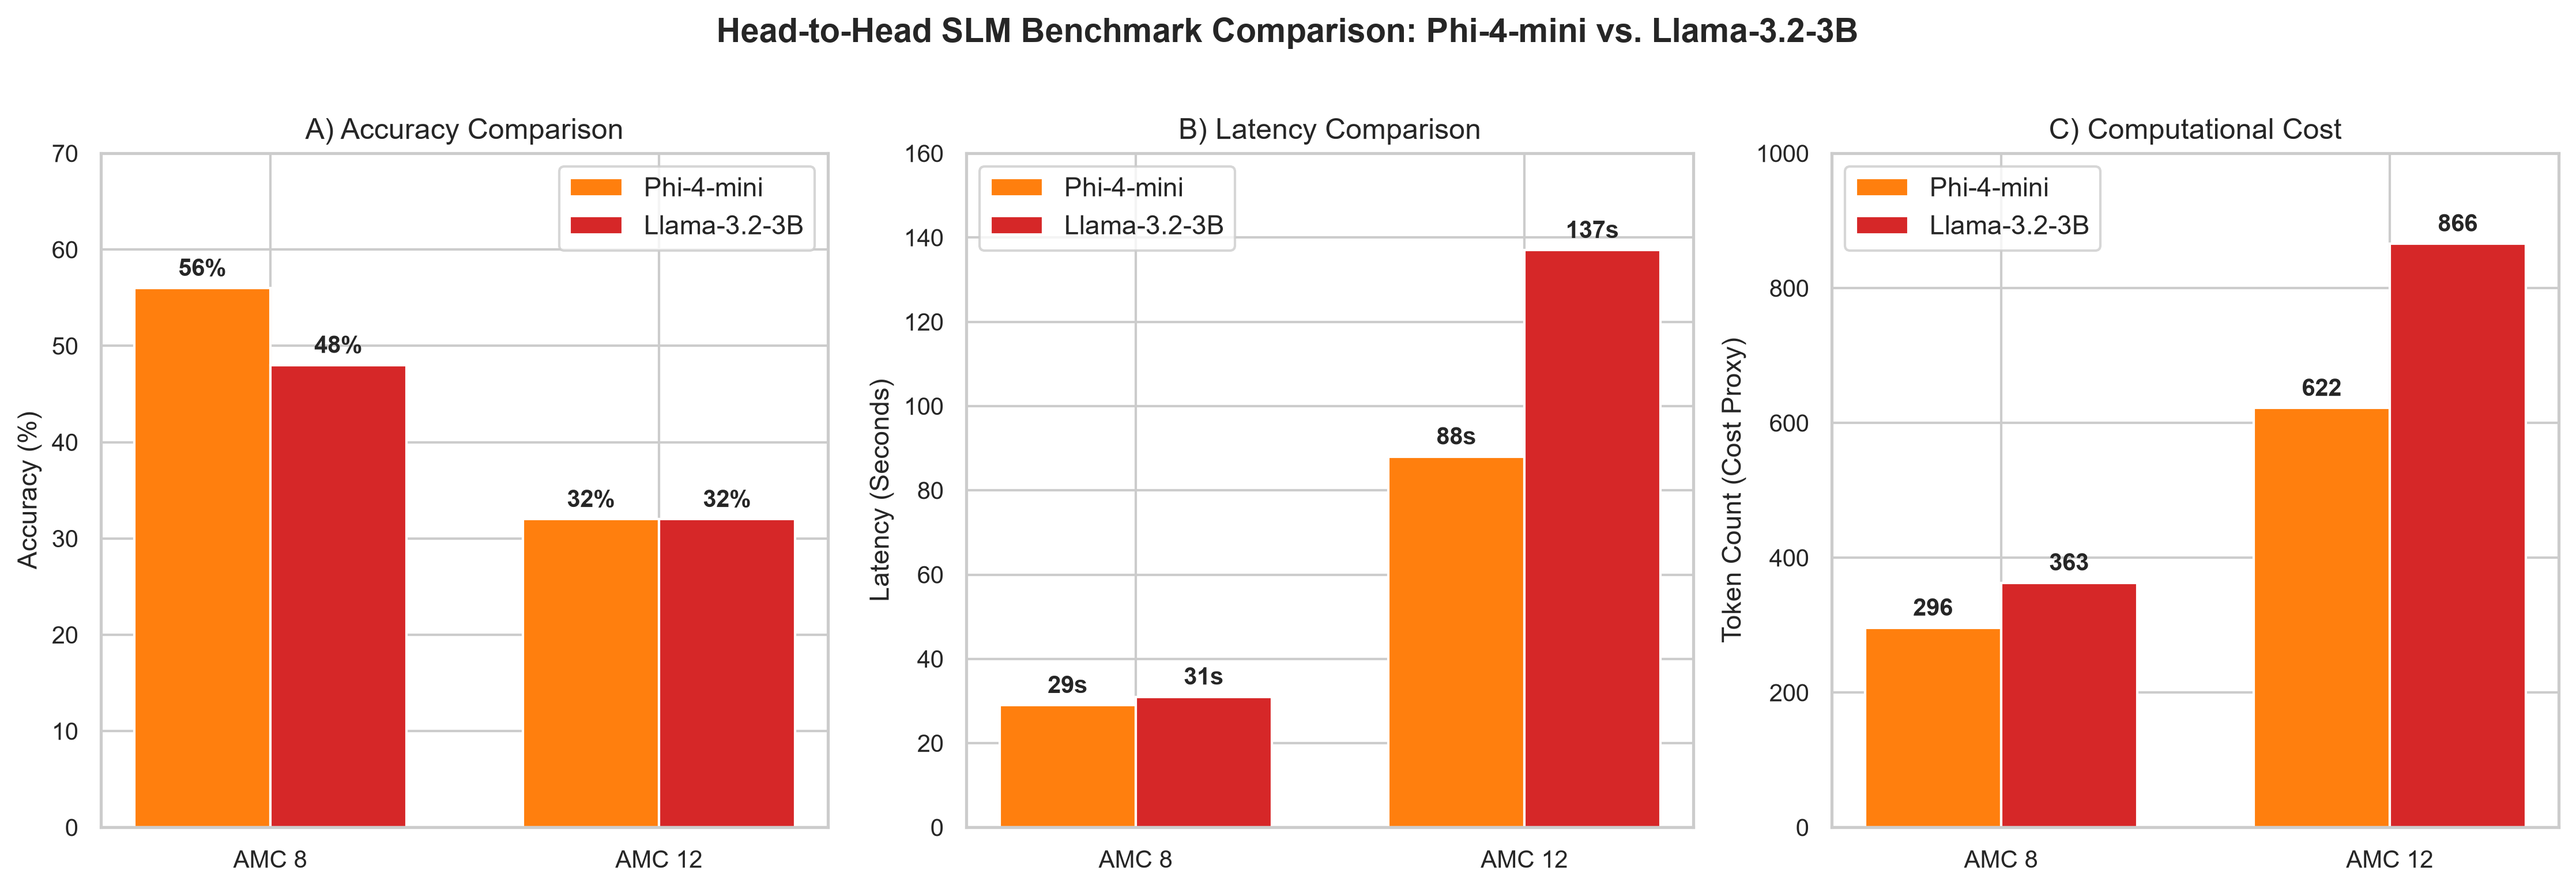
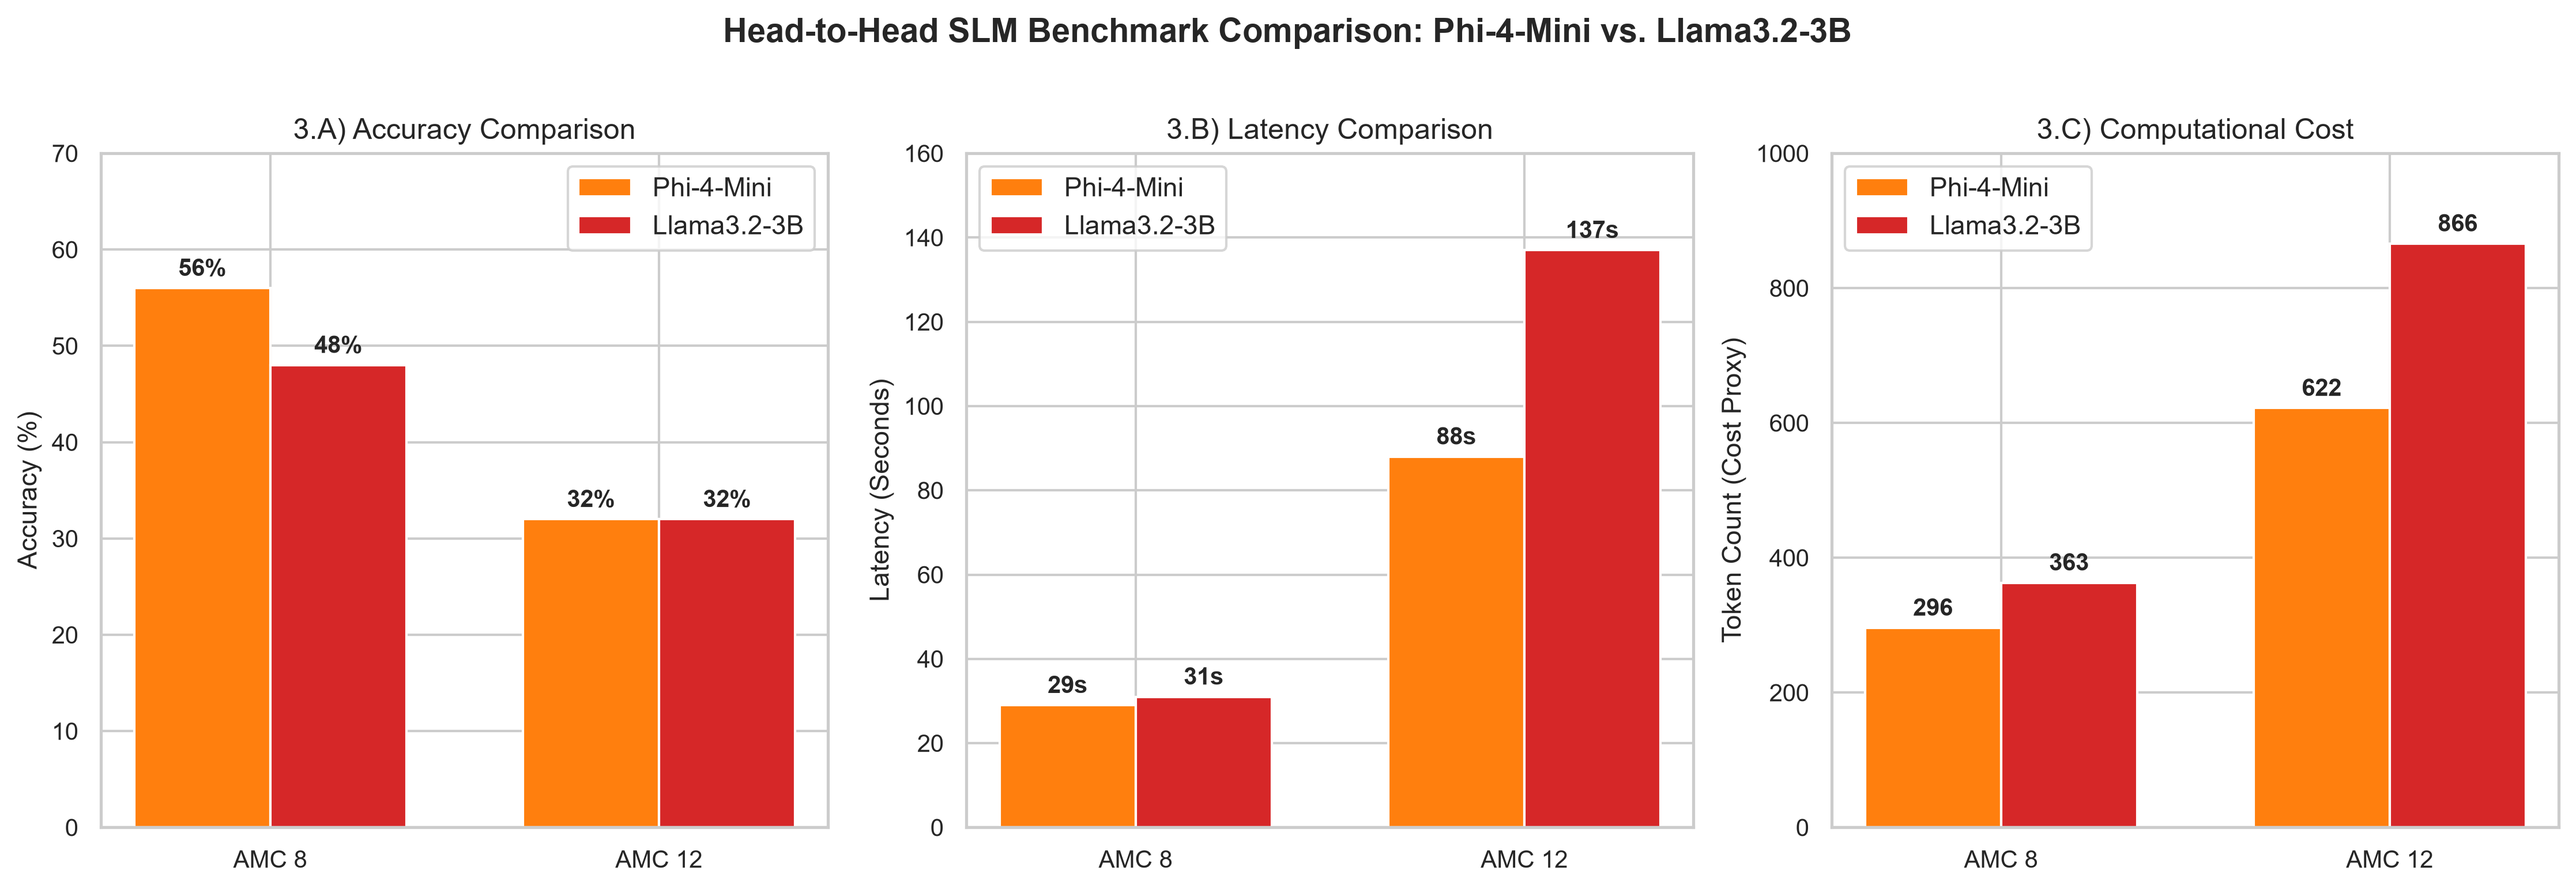
small graph tweaks

diff --git a/build_graph.py b/build_graph.py
@@ -7,7 +7,7 @@ plt.style.use('seaborn-v0_8-whitegrid' if 'seaborn-v0_8-whitegrid' in plt.style.
 fig, (ax1, ax2) = plt.subplots(1, 2, figsize=(16, 5), dpi=300)
 
 # Data from Table
-models = ['Gemini 3.6 (LLM)', 'Phi-4-mini (SLM)', 'Llama-3.2-3B (SLM)']
+models = ['Gemini 3.6 (LLM)', 'Phi-4-Mini (SLM)', 'Llama3.2-3B (SLM)']
 accuracy = [72, 32, 32]
 latency = [145, 88, 137]
 tokens = [1240, 622, 866]
@@ -15,19 +15,19 @@ tokens = [1240, 622, 866]
 # --- PLOT 1: Accuracy vs. Latency ---
 # Scatter Points
 ax1.scatter(latency[0], accuracy[0], color='#1f77b4', s=140, label='LLM (Gemini 3.6)', zorder=5)
-ax1.scatter(latency[1], accuracy[1], color='#ff7f0e', s=140, marker='^', label='SLM (Phi-4-mini)', zorder=5)
-ax1.scatter(latency[2], accuracy[2], color='#d62728', s=140, marker='x', label='SLM (Llama-3.2-3B - Dominated)', zorder=5)
+ax1.scatter(latency[1], accuracy[1], color='#ff7f0e', s=140, marker='^', label='SLM (Phi-4-Mini)', zorder=5)
+ax1.scatter(latency[2], accuracy[2], color='#d62728', s=140, marker='x', label='SLM (Llama3.2-3B - Dominated)', zorder=5)
 
 # Draw Pareto Frontier Line (Phi-4-mini -> Gemini 3.6)
 ax1.plot([88, 145], [32, 72], color='#2ca02c', linestyle='--', linewidth=2, label='Pareto Frontier', zorder=3)
 
 # Point Annotations
 ax1.annotate('Gemini 3.6\n(72%, 145s)', (145, 72), textcoords="offset points", xytext=(-10, 10), ha='right', weight='bold')
-ax1.annotate('Phi-4-mini\n(32%, 88s)', (88, 32), textcoords="offset points", xytext=(10, -5), weight='bold')
-ax1.annotate('Llama-3.2-3B\n(32%, 137s)', (137, 32), textcoords="offset points", xytext=(10, -18), color='#555555')
+ax1.annotate('Phi-4-Mini\n(32%, 88s)', (88, 32), textcoords="offset points", xytext=(10, -5), weight='bold')
+ax1.annotate('Llama3.2-3B\n(32%, 137s)', (137, 32), textcoords="offset points", xytext=(10, -18), color='#555555')
 
 # Axes Formatting (Anchored at 0 to Max)
-ax1.set_title('A) Accuracy vs. Latency Pareto Frontier', fontsize=12, fontweight='bold', pad=12)
+ax1.set_title('1.A) Accuracy vs. Latency Pareto Frontier', fontsize=12, fontweight='bold', pad=12)
 ax1.set_xlabel('Latency (Seconds)', fontsize=11, fontweight='bold')
 ax1.set_ylabel('Accuracy (%)', fontsize=11, fontweight='bold')
 ax1.set_ylim(0, 100)
@@ -37,19 +37,19 @@ ax1.legend(loc='upper left', frameon=True)
 # --- PLOT 2: Accuracy vs. Token Cost ---
 # Scatter Points
 ax2.scatter(tokens[0], accuracy[0], color='#1f77b4', s=140, label='LLM (Gemini 3.6)', zorder=5)
-ax2.scatter(tokens[1], accuracy[1], color='#ff7f0e', s=140, marker='^', label='SLM (Phi-4-mini)', zorder=5)
-ax2.scatter(tokens[2], accuracy[2], color='#d62728', s=140, marker='x', label='SLM (Llama-3.2-3B - Dominated)', zorder=5)
+ax2.scatter(tokens[1], accuracy[1], color='#ff7f0e', s=140, marker='^', label='SLM (Phi-4-Mini)', zorder=5)
+ax2.scatter(tokens[2], accuracy[2], color='#d62728', s=140, marker='x', label='SLM (Llama3.2-3B - Dominated)', zorder=5)
 
 # Draw Pareto Frontier Line
 ax2.plot([622, 1240], [32, 72], color='#2ca02c', linestyle='--', linewidth=2, label='Pareto Frontier', zorder=3)
 
 # Point Annotations
 ax2.annotate('Gemini 3.6\n(72%, 1240 tokens)', (1240, 72), textcoords="offset points", xytext=(-10, 10), ha='right', weight='bold')
-ax2.annotate('Phi-4-mini\n(32%, 622 tokens)', (622, 32), textcoords="offset points", xytext=(10, -5), weight='bold')
-ax2.annotate('Llama-3.2-3B\n(32%, 866 tokens)', (866, 32), textcoords="offset points", xytext=(10, -18), color='#555555')
+ax2.annotate('Phi-4-Mini\n(32%, 622 tokens)', (622, 32), textcoords="offset points", xytext=(10, -5), weight='bold')
+ax2.annotate('Llama3.2:3B\n(32%, 866 tokens)', (866, 32), textcoords="offset points", xytext=(10, -18), color='#555555')
 
 # Axes Formatting (Anchored at 0 to Max)
-ax2.set_title('B) Accuracy vs. Computational Cost Pareto Frontier', fontsize=12, fontweight='bold', pad=12)
+ax2.set_title('1.B) Accuracy vs. Computational Cost Pareto Frontier', fontsize=12, fontweight='bold', pad=12)
 ax2.set_xlabel('Token Count (Cost Proxy)', fontsize=11, fontweight='bold')
 ax2.set_ylabel('Accuracy (%)', fontsize=11, fontweight='bold')
 ax2.set_ylim(0, 100)
@@ -58,4 +58,5 @@ ax2.legend(loc='upper left', frameon=True)
 
 plt.tight_layout()
 plt.savefig('pareto_frontier_analysis.png', dpi=300)
+print("AMC12 results printed in pareto_frontier_analysis.png")
 plt.show()

diff --git a/build_graph3.py b/build_graph3.py
@@ -22,8 +22,8 @@ x = np.arange(len(exams))
 width = 0.35
 
 # Model Specs (Reordered: [AMC 8, AMC 12])
-# Phi-4-mini: 56% (AMC8), 32% (AMC12) | 29s (AMC8), 88s (AMC12) | 296 (AMC8), 622 (AMC12)
-# Llama-3.2-3B: 48% (AMC8), 32% (AMC12) | 31s (AMC8), 137s (AMC12) | 363 (AMC8), 866 (AMC12)
+# Phi-4-Mini: 56% (AMC8), 32% (AMC12) | 29s (AMC8), 88s (AMC12) | 296 (AMC8), 622 (AMC12)
+# Llama3.2-3B: 48% (AMC8), 32% (AMC12) | 31s (AMC8), 137s (AMC12) | 363 (AMC8), 866 (AMC12)
 
 phi_acc = [56, 32]
 llama_acc = [48, 32]
@@ -46,14 +46,14 @@ fig, axes = plt.subplots(1, 3, figsize=(15, 5))
 # ==============================================================================
 ax1 = axes[0]
 rects1 = ax1.bar(
-    x - width / 2, phi_acc, width, label="Phi-4-mini", color=c_phi
+    x - width / 2, phi_acc, width, label="Phi-4-Mini", color=c_phi
 )
 rects2 = ax1.bar(
-    x + width / 2, llama_acc, width, label="Llama-3.2-3B", color=c_llama
+    x + width / 2, llama_acc, width, label="Llama3.2-3B", color=c_llama
 )
 
 ax1.set_ylabel("Accuracy (%)")
-ax1.set_title("A) Accuracy Comparison")
+ax1.set_title("3.A) Accuracy Comparison")
 ax1.set_xticks(x)
 ax1.set_xticklabels(exams)
 ax1.set_ylim(0, 70)
@@ -66,14 +66,14 @@ ax1.bar_label(rects2, padding=3, fmt="%d%%", weight="bold")
 # ==============================================================================
 ax2 = axes[1]
 rects3 = ax2.bar(
-    x - width / 2, phi_lat, width, label="Phi-4-mini", color=c_phi
+    x - width / 2, phi_lat, width, label="Phi-4-Mini", color=c_phi
 )
 rects4 = ax2.bar(
-    x + width / 2, llama_lat, width, label="Llama-3.2-3B", color=c_llama
+    x + width / 2, llama_lat, width, label="Llama3.2-3B", color=c_llama
 )
 
 ax2.set_ylabel("Latency (Seconds)")
-ax2.set_title("B) Latency Comparison")
+ax2.set_title("3.B) Latency Comparison")
 ax2.set_xticks(x)
 ax2.set_xticklabels(exams)
 ax2.set_ylim(0, 160)
@@ -86,14 +86,14 @@ ax2.bar_label(rects4, padding=3, fmt="%ds", weight="bold")
 # ==============================================================================
 ax3 = axes[2]
 rects5 = ax3.bar(
-    x - width / 2, phi_tok, width, label="Phi-4-mini", color=c_phi
+    x - width / 2, phi_tok, width, label="Phi-4-Mini", color=c_phi
 )
 rects6 = ax3.bar(
-    x + width / 2, llama_tok, width, label="Llama-3.2-3B", color=c_llama
+    x + width / 2, llama_tok, width, label="Llama3.2-3B", color=c_llama
 )
 
 ax3.set_ylabel("Token Count (Cost Proxy)")
-ax3.set_title("C) Computational Cost")
+ax3.set_title("3.C) Computational Cost")
 ax3.set_xticks(x)
 ax3.set_xticklabels(exams)
 ax3.set_ylim(0, 1000)
@@ -103,7 +103,7 @@ ax3.bar_label(rects6, padding=3, fmt="%d", weight="bold")
 
 # Overall Layout Adjustments
 plt.suptitle(
-    "Head-to-Head SLM Benchmark Comparison: Phi-4-mini vs. Llama-3.2-3B",
+    "Head-to-Head SLM Benchmark Comparison: Phi-4-Mini vs. Llama3.2-3B",
     fontsize=14,
     weight="bold",
     y=1.02,
@@ -112,7 +112,7 @@ plt.tight_layout()
 
 # Save plot to file
 plt.savefig("SLMGraphAnalysis.png", dpi=300, bbox_inches="tight")
-print("Graph successfully saved")
+print("Graph successfully saved to SLMGraphAnalysis.png")
 
 # Display
 plt.show()

diff --git a/build_graph2.py b/build_graph2.py
@@ -20,8 +20,8 @@ data = [
         "dominated": False,
     },
     {
-        "model": "SLM (Phi-4-mini)",
-        "label": "Phi-4-mini",
+        "model": "SLM (Phi-4-Mini)",
+        "label": "Phi-4-Mini",
         "acc": 56,
         "latency": 29,
         "tokens": 296,
@@ -31,8 +31,8 @@ data = [
         "dominated": False,
     },
     {
-        "model": "SLM (Llama-3.2-3B - Dominated)",
-        "label": "Llama-3.2-3B",
+        "model": "SLM (Llama3.2-3B - Dominated)",
+        "label": "Llama3.2-3B",
         "acc": 48,
         "latency": 31,
         "tokens": 363,
@@ -77,7 +77,7 @@ for pt in data:
     annot_text = f"{pt['label']}\n({pt['acc']}%, {pt['latency']}s)"
 
     # Adjust offsets for clear placement from origin
-    y_offset = -6 if pt["label"] == "Llama-3.2-3B" else 3
+    y_offset = -6 if pt["label"] == "Llama3.2-3B" else 3
     ax1.annotate(
         annot_text,
         (pt["latency"], pt["acc"]),
@@ -87,7 +87,7 @@ for pt in data:
         color="#222222" if not pt["dominated"] else "#666666",
     )
 
-ax1.set_title("A) Accuracy vs. Latency Pareto Frontier", fontweight="bold", pad=12)
+ax1.set_title("2.A) Accuracy vs. Latency Pareto Frontier", fontweight="bold", pad=12)
 ax1.set_xlabel("Latency (Seconds)", fontweight="bold")
 ax1.set_ylabel("Accuracy (%)", fontweight="bold")
 
@@ -125,7 +125,7 @@ for pt in data:
     )
     annot_text = f"{pt['label']}\n({pt['acc']}%, {pt['tokens']} tokens)"
 
-    y_offset = -6 if pt["label"] == "Llama-3.2-3B" else 3
+    y_offset = -6 if pt["label"] == "Llama3.2-3B" else 3
     ax2.annotate(
         annot_text,
         (pt["tokens"], pt["acc"]),
@@ -135,7 +135,7 @@ for pt in data:
         color="#222222" if not pt["dominated"] else "#666666",
     )
 
-ax2.set_title("B) Accuracy vs. Computational Cost Pareto Frontier", fontweight="bold", pad=12)
+ax2.set_title("2.B) Accuracy vs. Computational Cost Pareto Frontier", fontweight="bold", pad=12)
 ax2.set_xlabel("Token Count (Cost Proxy)", fontweight="bold")
 
 # Force 0 to Max scale
